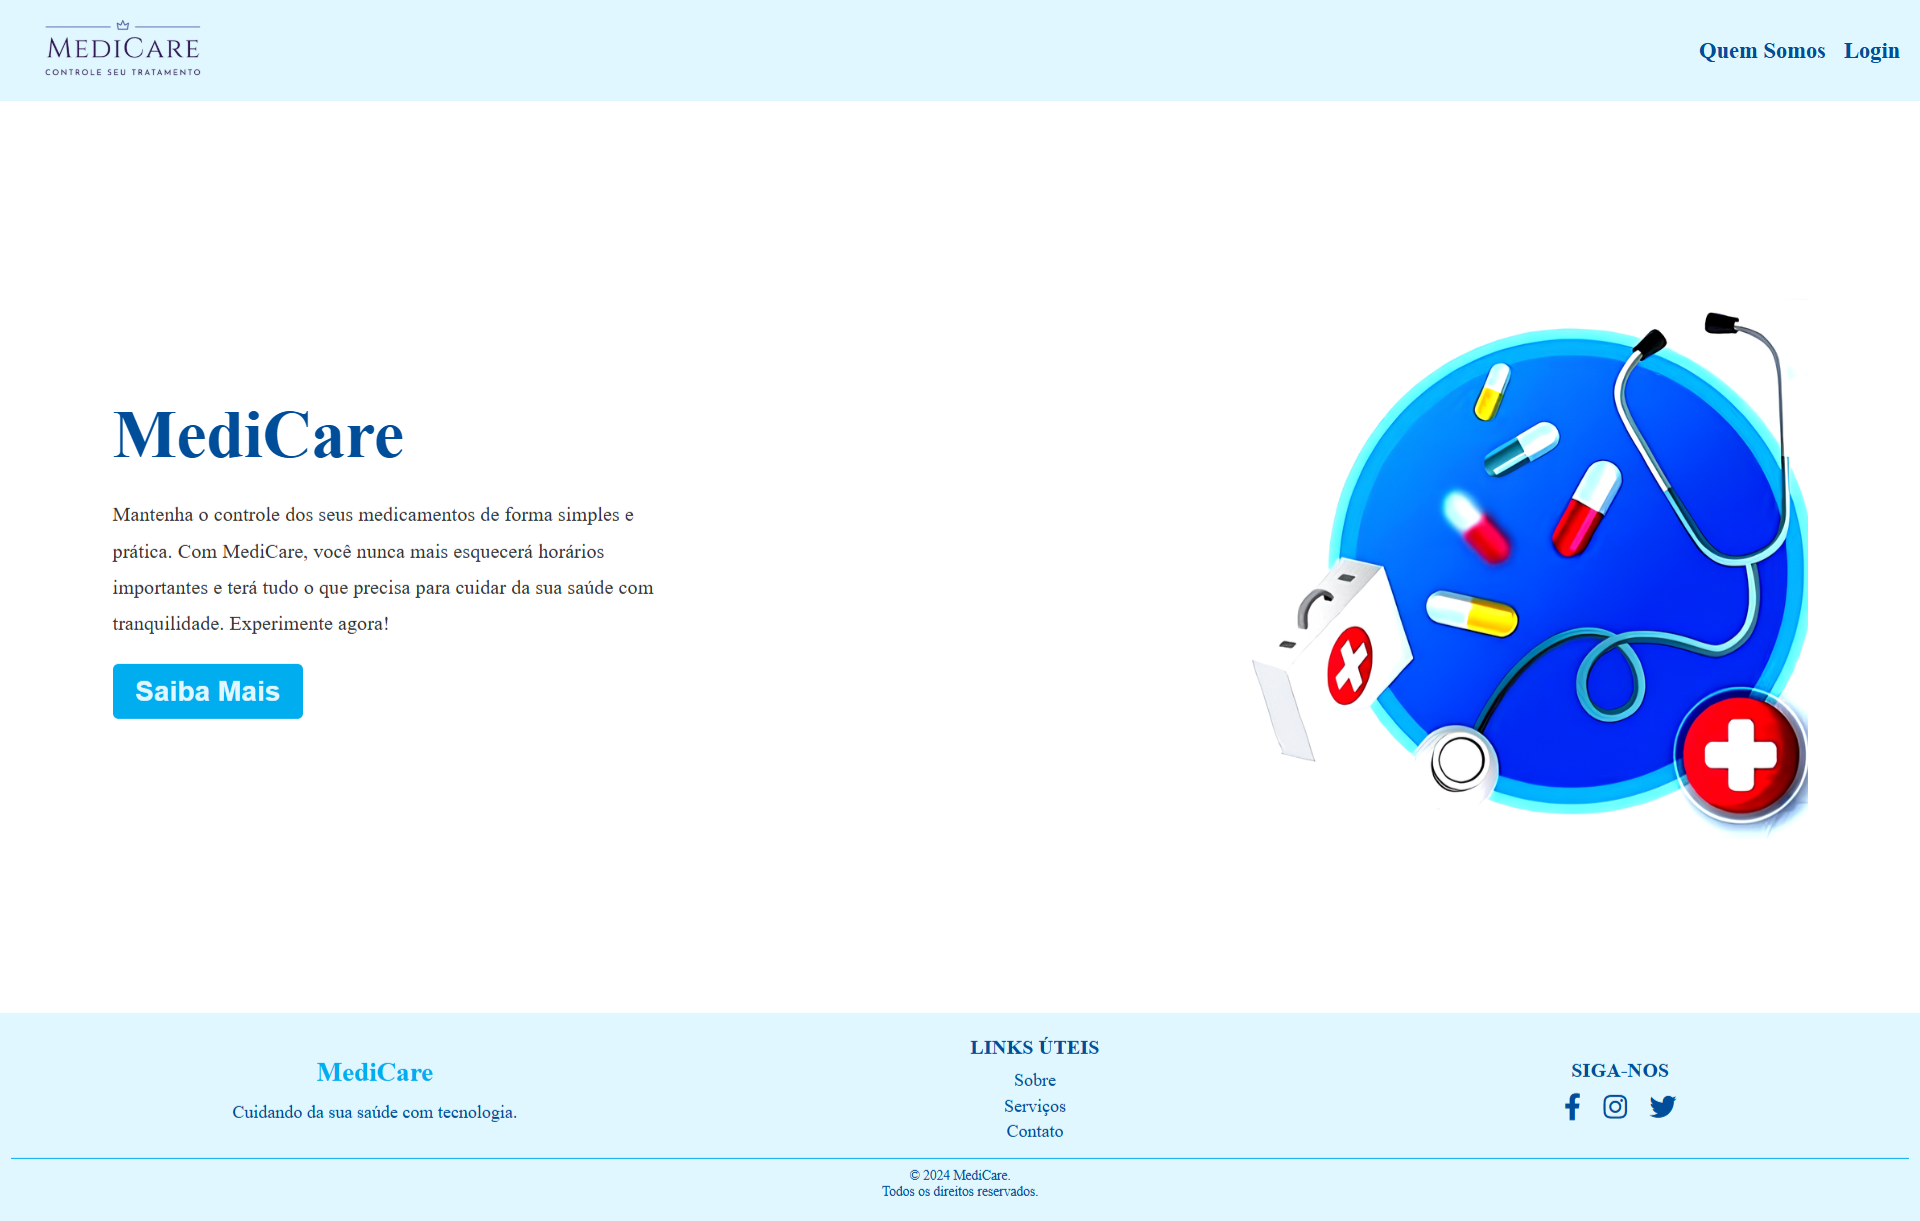
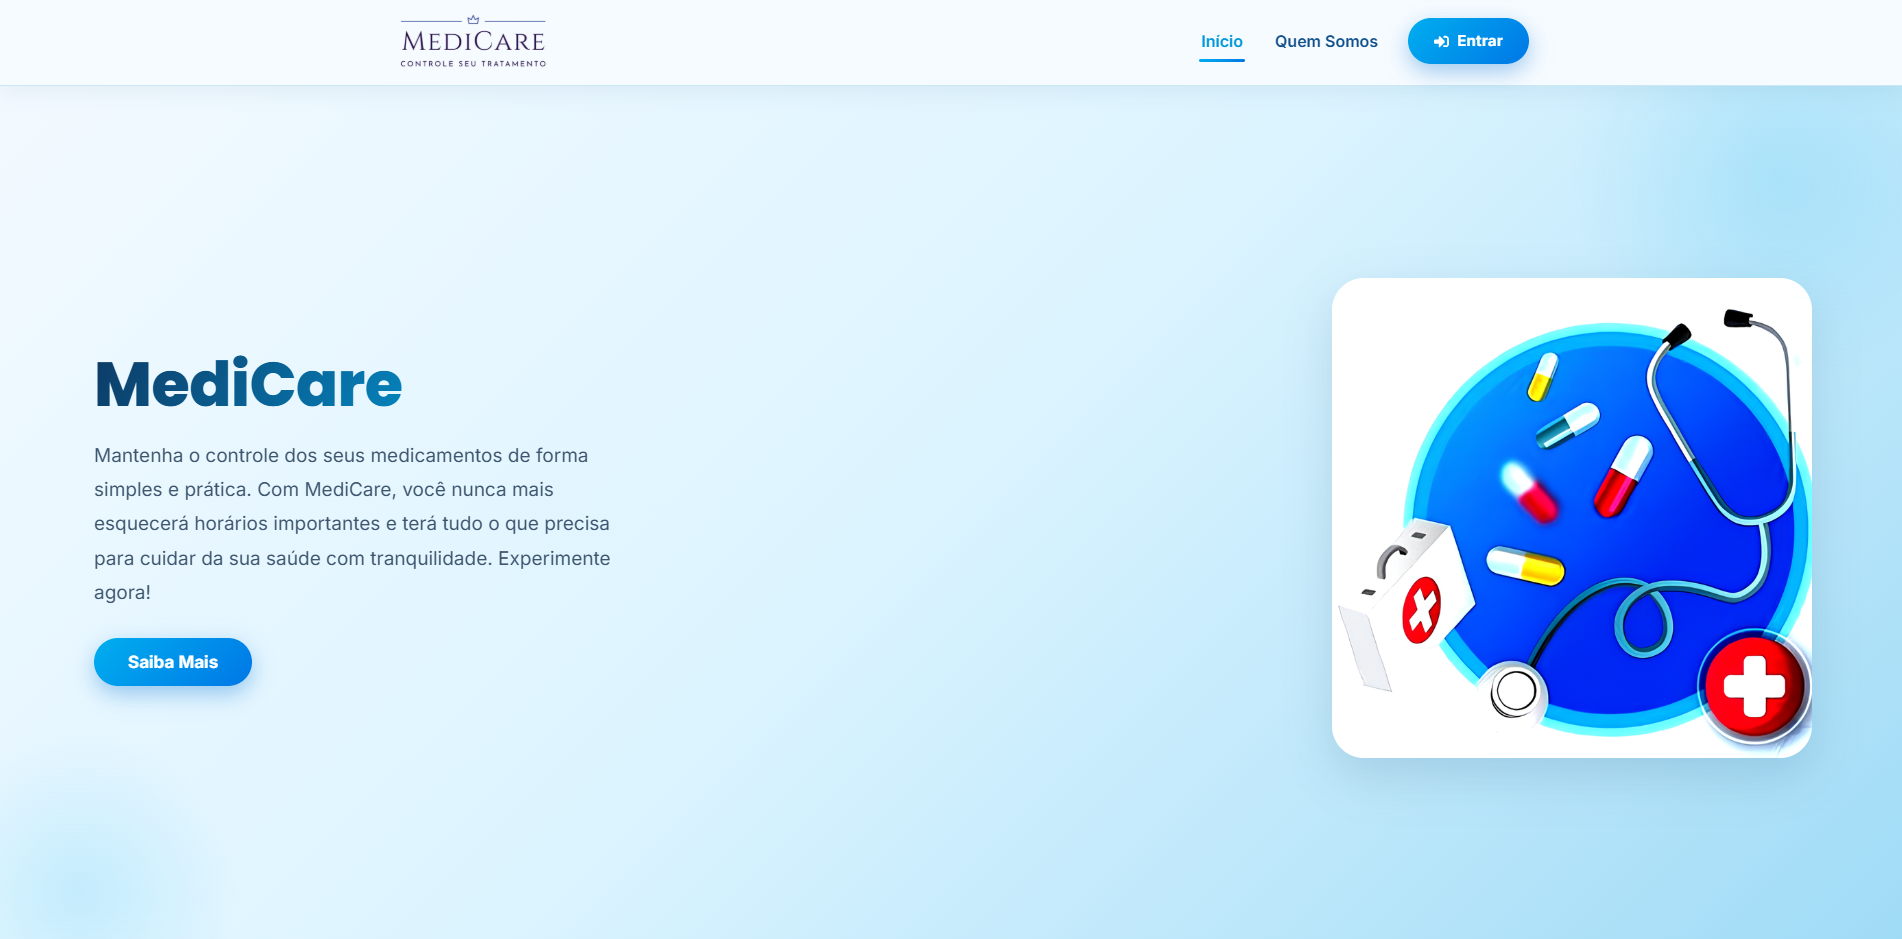
feat: replace One Piece project with AgileWell-Corp

diff --git a/script.js b/script.js
@@ -12,7 +12,7 @@ document.addEventListener('DOMContentLoaded', () => {
       nav_about: "Sobre",
       nav_projects: "Projetos",
       nav_skills: "Skills",
-      hero_title: "Desenvolvedora de Software",
+      hero_title: "DESENVOLVEDORA DE SOFTWARE",
       hero_subtitle: "Graduada em Ciência da Computação, entusiasta de tecnologia e focada em criar soluções criativas e funcionais que agregam valor a projetos.",
       hero_contact_btn: "Entrar em Contato",
       about_title: "MUITO PRAZER, SOU RAQUEL MARTINS",
@@ -20,7 +20,7 @@ document.addEventListener('DOMContentLoaded', () => {
       projects_title: "MEUS PROJETOS",
       project1_desc: "Plataforma web para gerenciar medicamentos e estoques, ajudando usuários a organizar o uso, aumentar a eficiência e reduzir desperdícios.",
       project2_desc: "Plataforma web desenvolvida para aproximar pacientes e profissionais de saúde, funcionando como um diário digital compartilhado.",
-      project3_desc: "Site temático desenvolvido para fãs, reunindo informações, curiosidades e conteúdos exclusivos sobre o universo One Piece.",
+      project3_desc: "Plataforma web para gestão do fator humano em equipes ágeis, com análise, indicadores de bem-estar, identificação de riscos de burnout e integração entre práticas do PMBOK e metodologias ágeis.",
       skills_title: "MINHAS SKILLS",
       project_cta: "Ver Detalhes",
       skills_tech: "Habilidades Técnicas",
@@ -37,15 +37,15 @@ document.addEventListener('DOMContentLoaded', () => {
       nav_about: "About",
       nav_projects: "Projects",
       nav_skills: "Skills",
-      hero_title: "Software Developer",
+      hero_title: "SOFTWARE DEVELOPER",
       hero_subtitle: "Computer Science graduate, technology enthusiast, and focused on creating creative and functional solutions that add value to projects.",
       hero_contact_btn: "Get in Touch",
       about_title: "NICE TO MEET YOU, I'M RAQUEL MARTINS",
       about_desc: "Graduated in Computer Science, I have a strong interest in Front-End development and am always eager to learn and grow technically. I enjoy transforming ideas into clear and functional interfaces, focusing on usability and the user experience. I also work on Back-End development with Java, which broadens my perspective on projects and allows me to collaborate across different stages of development. Combining these two areas has expanded my outlook and has been shaping my path as a Fullstack developer. I am committed to delivering clear, efficient solutions aligned with best practices, contributing to the continuous improvement of projects.",
-      projects_title: "My Projects",
+      projects_title: "MY PROJECTS",
       project1_desc: "Web platform for managing medications and inventory, helping users organize usage, increase efficiency, and reduce waste.",
       project2_desc: "Web platform developed to bring patients and healthcare professionals closer together, functioning as a shared digital diary.",
-      project3_desc: "Thematic website developed for fans, bringing together information, curiosities, and exclusive content about the One Piece universe.",
+      project3_desc: "A web platform for managing the human factor in agile teams, featuring analysis, well-being indicators, burnout risk identification, and integration of PMBOK practices with agile methodologies.",
       skills_title: "MY SKILLS",
       project_cta: "View Details",
       skills_tech: "Technical Skills",

diff --git a/index.html b/index.html
@@ -191,13 +191,13 @@
 
           <article class="project-card reveal">
             <div class="project-media">
-              <img src="img/OnePiece.png" alt="Imagem do Projeto 3" />
+              <img src="img/AgileWell-Corp.png" alt="Imagem do Projeto 3" />
               <div class="media-shine"></div>
             </div>
             <div class="project-body">
-              <h4 data-lang-key="project3_title">One Piece</h4>
-              <p data-lang-key="project3_desc">Site temático desenvolvido para fãs, reunindo informações, curiosidades e conteúdos exclusivos sobre o universo One Piece.</p>
-              <a href="https://github.com/Raquel212/Site_One_Piece" target="_blank" rel="noopener" class="project-link">
+              <h4 data-lang-key="project3_title">AgileWell-Corp</h4>
+              <p data-lang-key="project3_desc">Plataforma web para gestão do fator humano em equipes ágeis, com análise, indicadores de bem-estar, identificação de riscos de burnout e integração entre práticas do PMBOK e metodologias ágeis.</p>
+              <a href="https://github.com/Raquel212/AgileWell-Corp" target="_blank" rel="noopener" class="project-link">
                 <span data-lang-key="project_cta">Ver Detalhes</span> <i class="bi bi-arrow-up-right"></i>
               </a>
             </div>
